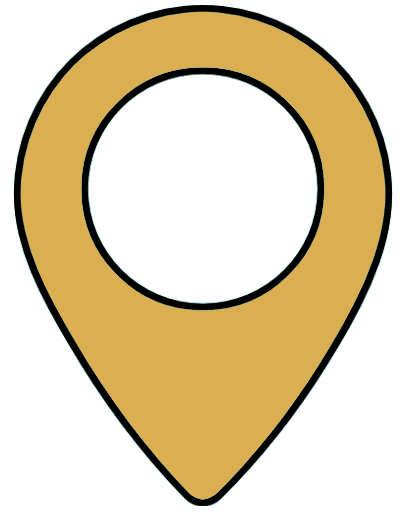
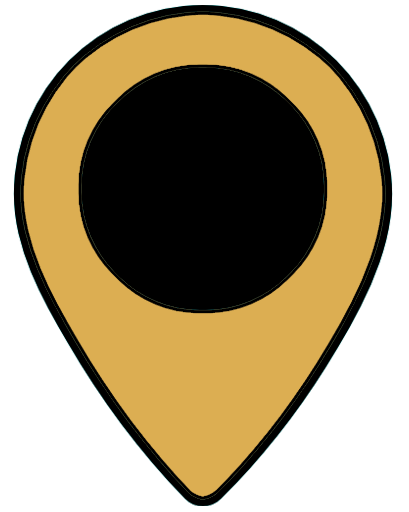
Add files via upload

diff --git a/index.php b/index.php
@@ -27,7 +27,7 @@
 
     <div class="header">
         
-        <img src="wv_logo.png" id="mainLogo" alt="World Viewer Logo">
+        <img src="wv_logo2.png" id="mainLogo" alt="World Viewer Logo">
 
 
 <!--
@@ -82,6 +82,89 @@
         <iframe width="560" height="315" src="https://www.youtube.com/embed/G85dhopGADE" title="YouTube video player" frameborder="0" allow="accelerometer; autoplay; clipboard-write; encrypted-media; gyroscope; picture-in-picture" allowfullscreen></iframe>
 
     </div>
+    
+    
+    <div class='place'>
+<!--35.693503292958304, 139.69949538242176-->
+        <h3>Location: Shinjuku, Tokyo <br> Longitude:139.69949538242176<br>Latitude: 35.693503292958304</h3>
+
+        <iframe width="560" height="315" src="https://www.youtube.com/embed/RQA5RcIZlAM" title="YouTube video player" frameborder="0" allow="accelerometer; autoplay; clipboard-write; encrypted-media; gyroscope; picture-in-picture" allowfullscreen></iframe>
+
+    </div>
+    
+       <div class='place'>
+<!--43.0440° N, 87.9140° W-->
+        <h3>Location: Milwaukee, WI <br> Longitude:-87.9140<br>Latitude: 43.0440</h3>
+
+        <iframe width="560" height="315" src="https://www.youtube.com/embed/JATo2lPJcaE" title="YouTube video player" frameborder="0" allow="accelerometer; autoplay; clipboard-write; encrypted-media; gyroscope; picture-in-picture" allowfullscreen></iframe>
+
+    </div>
+    
+           <div class='place'>
+<!--29.571164382 -95.489498042-->
+        <h3>Location: Houston, Texas <br> Longitude:-95.489498042<br>Latitude: 29.571164382</h3>
+
+        <iframe width="560" height="315" src="https://www.youtube.com/embed/c5_w4yGHmNQ" title="YouTube video player" frameborder="0" allow="accelerometer; autoplay; clipboard-write; encrypted-media; gyroscope; picture-in-picture" allowfullscreen></iframe>
+
+    </div>
+    
+              <div class='place'>
+
+        <h3>Location: Times Square, NYC <br> Longitude:-73.9847<br>Latitude: 40.7580</h3>
+
+        <iframe width="560" height="315" src="https://www.youtube.com/embed/3XTw2FmCUdE" title="YouTube video player" frameborder="0" allow="accelerometer; autoplay; clipboard-write; encrypted-media; gyroscope; picture-in-picture" allowfullscreen></iframe>
+
+    </div>
+    
+               <div class='place'>
+
+        <h3>Location: Las Vegas, NV <br> Longitude:-115.172924<br>Latitude: 36.102578</h3>
+
+        <iframe width="560" height="315" src="https://www.youtube.com/embed/1ZNCtDLUKHw" title="YouTube video player" frameborder="0" allow="accelerometer; autoplay; clipboard-write; encrypted-media; gyroscope; picture-in-picture" allowfullscreen></iframe>
+
+    </div>
+    
+     <div class='place'>
+
+        <h3>Location: Las Vegas, NV <br> Longitude:-80.1170<br>Latitude: 26.0087</h3>
+
+        <iframe width="560" height="315" src="https://www.youtube.com/embed/cmkAbDUEoyA" title="YouTube video player" frameborder="0" allow="accelerometer; autoplay; clipboard-write; encrypted-media; gyroscope; picture-in-picture" allowfullscreen></iframe>
+
+    </div>
+    
+    
+         <div class='place'>
+
+        <h3>Location: Ciudad de México <br> Longitude:-99.1346<br>Latitude: 19.4322</h3>
+
+        <iframe width="560" height="315" src="https://www.youtube.com/embed/WRnHHyKYQsw" title="YouTube video player" frameborder="0" allow="accelerometer; autoplay; clipboard-write; encrypted-media; gyroscope; picture-in-picture" allowfullscreen></iframe>
+
+    </div>
+    
+             <div class='place'>
+
+        <h3>Location: Laikipia County, Kenya <br> Longitude: 36.7820<br>Latitude: 0.3606</h3>
+
+        <iframe width="560" height="315" src="https://www.youtube.com/embed/bGpNSsnSlfo" title="YouTube video player" frameborder="0" allow="accelerometer; autoplay; clipboard-write; encrypted-media; gyroscope; picture-in-picture" allowfullscreen></iframe>
+
+    </div> 
+    
+    <div class='place'>
+
+        <h3>Location: Place Centrale Verbier, Switzerland <br> Longitude: 7.2265100<br>Latitude: 46.1002000</h3>
+
+        <iframe width="560" height="315" src="https://www.youtube.com/embed/yDKJMdZTEXQ" title="YouTube video player" frameborder="0" allow="accelerometer; autoplay; clipboard-write; encrypted-media; gyroscope; picture-in-picture" allowfullscreen></iframe>
+    </div>
+
+
+    
+    
+
+
+
+
+
+
 
 
 
